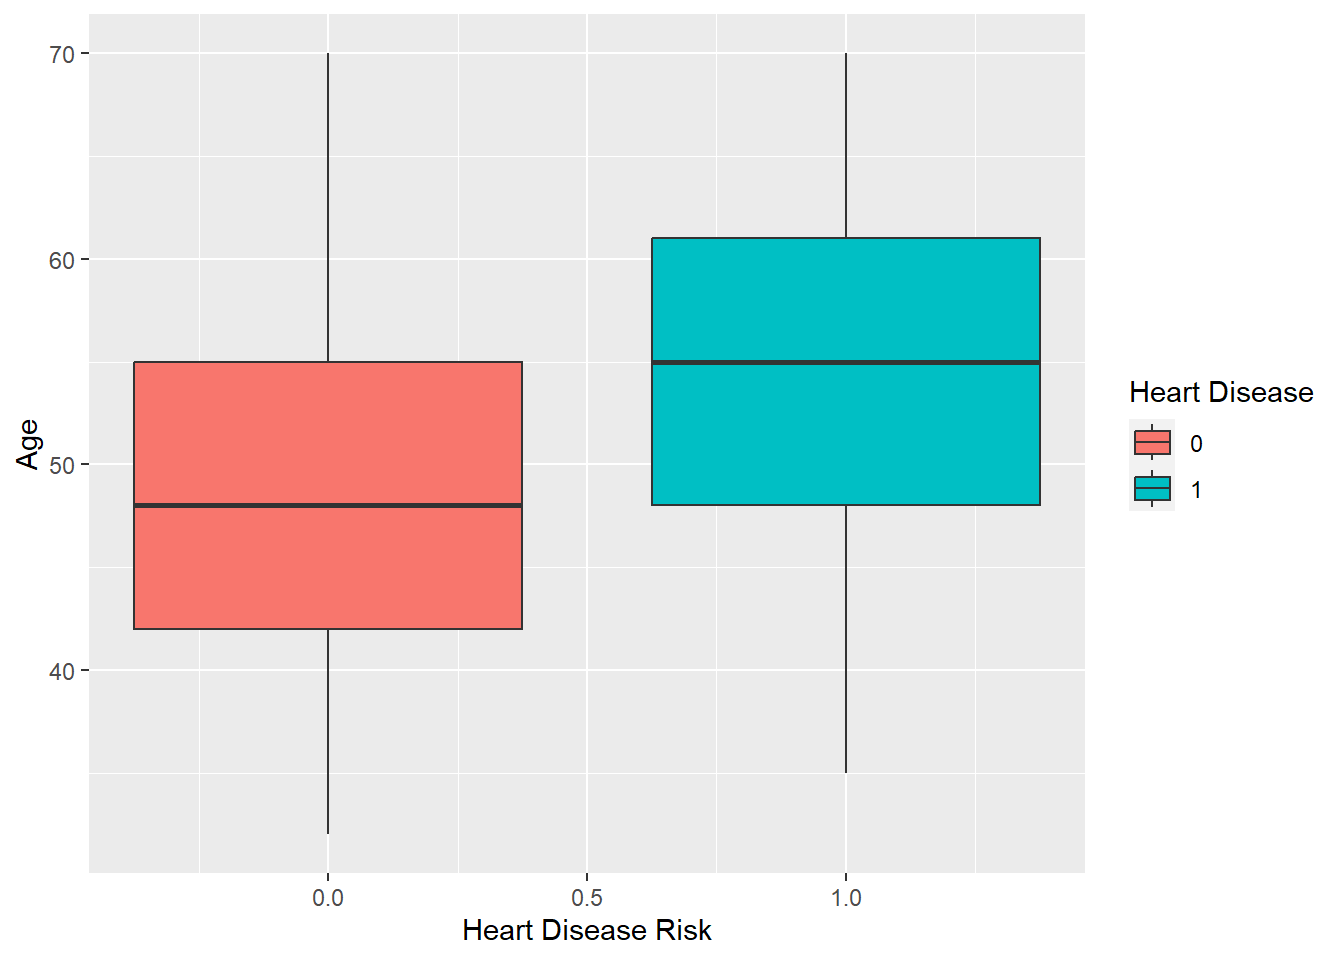
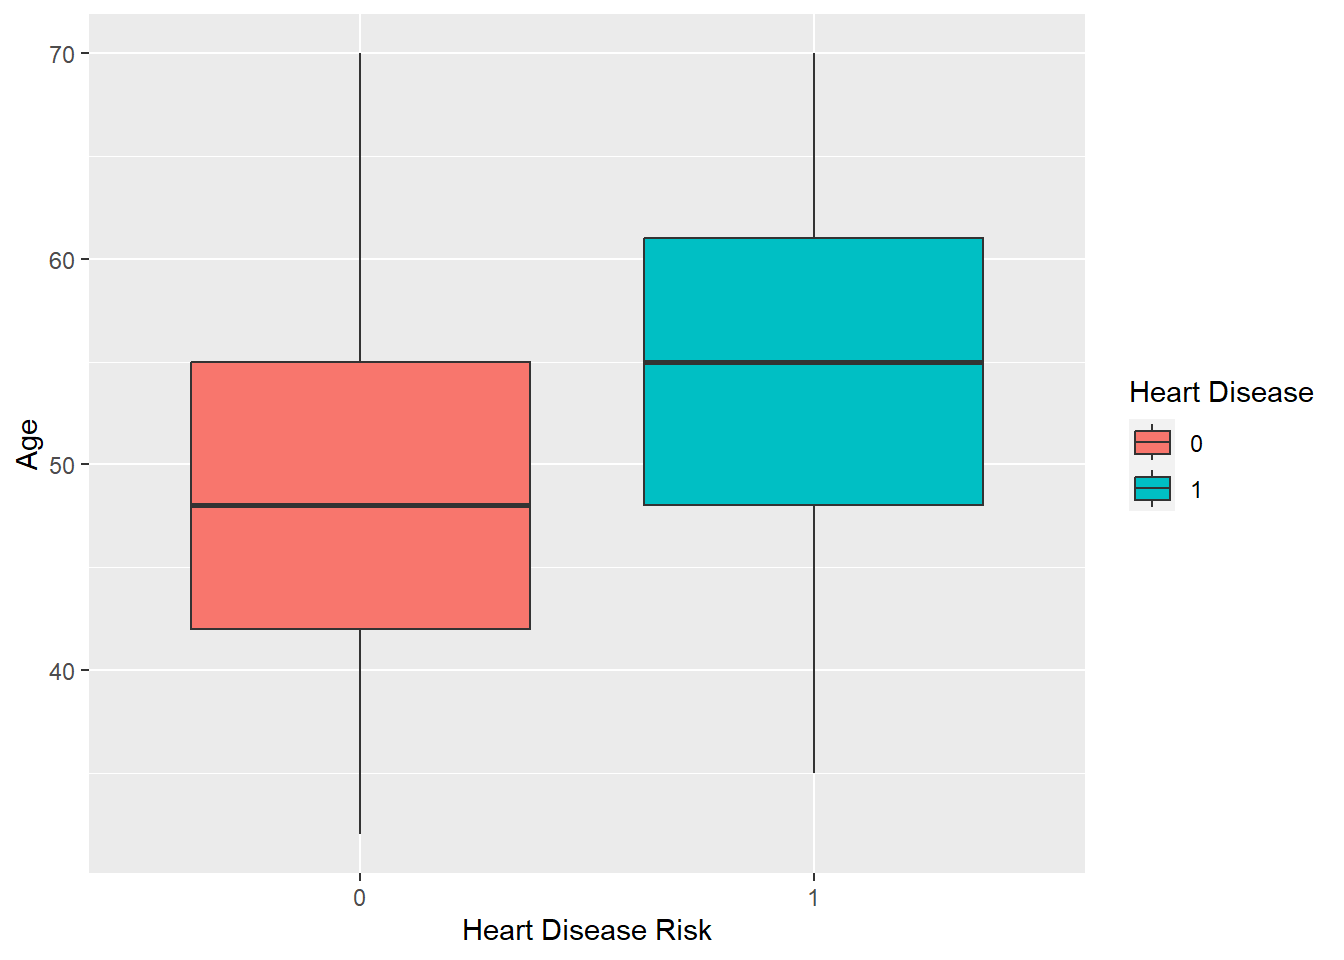
S1Z lab 5 EJ updates

diff --git a/docs/introducing-the-data.html b/docs/introducing-the-data.html
@@ -171,8 +171,8 @@ code span.wa { color: #60a0b0; font-weight: bold; font-style: italic; } /* Warni
 <p><img src="Images/heartdisease.jpg" width="75%" /></p>
 <p>Today we will explore the variables that contribute to heart disease. We will be looking at data from an ongoing cardiovascular study on residents of the town of Framingham, Massachusetts. The goal is to predict the probability of a patient developing coronary heart disease (CHD) over the next ten years based on multiple explanatory variables. The dataset provides the patients’ information. It includes over 4,000 records and 7 attributes.</p>
 <p>Load the <code>HEARTDISEASE</code> data set into your workspace by typing the following code in an Rscript file in your local Rstudio.</p>
-<div class="sourceCode" id="cb1"><pre class="sourceCode r"><code class="sourceCode r"><span id="cb1-1"><a href="introducing-the-data.html#cb1-1" aria-hidden="true" tabindex="-1"></a>HEARTDISEASE<span class="ot">&lt;-</span><span class="fu">read.csv</span>(<span class="fu">url</span>(<span class="st">&quot;https://raw.githubusercontent.com/Glasgow-Stats-L1-L2/S1Z_Lab5/main/HEARTDISEASE.csv&quot;</span>))</span></code></pre></div>
-<p>You may download the dataset named <code>HEARTDISEASE.csv</code> file from our Moodle course page. Once the file has downloaded, <strong>save it in the same folder</strong> as the <code>R</code> script file you created and saved for this lab. You should now set your working directory to this location by clicking <code>Session &gt; Set Working Directory &gt; To Source File Location</code>. You can load the data set into your workspace by running <code>HEARTDISEASE &lt;- read.csv("HEARTDISEASE.csv")</code>.</p>
+<div class="sourceCode" id="cb1"><pre class="sourceCode r"><code class="sourceCode r"><span id="cb1-1"><a href="introducing-the-data.html#cb1-1" aria-hidden="true" tabindex="-1"></a>HEARTDISEASE<span class="ot">&lt;-</span><span class="fu">read.csv</span>(<span class="fu">url</span>(<span class="st">&quot;https://raw.githubusercontent.com/Glasgow-Stats-L1-L2/S1Z_Lab5/main/HeartDisease.csv&quot;</span>))</span></code></pre></div>
+<p>You may download the dataset named <code>HeartDisease.csv</code> file from our Moodle course page. Once the file has downloaded, <strong>save it in the same folder</strong> as the <code>R</code> script file you created and saved for this lab. You should now set your working directory to this location by clicking <code>Session &gt; Set Working Directory &gt; To Source File Location</code>. You can load the data set into your workspace by running <code>HEARTDISEASE &lt;- read.csv("HeartDisease.csv")</code>.</p>
 <p>The 7 variables are:</p>
 <ul>
 <li><p><strong>male</strong> : Sex of the patient (Nominal - male = 1 or female = 0)</p></li>
@@ -219,24 +219,24 @@ Hint
 <span id="cb6-2"><a href="introducing-the-data.html#cb6-2" aria-hidden="true" tabindex="-1"></a>sextable</span></code></pre></div>
 <pre><code>## 
 ##    0    1 
-## 2310 1747</code></pre>
+## 2353 1753</code></pre>
 <div class="sourceCode" id="cb8"><pre class="sourceCode r"><code class="sourceCode r"><span id="cb8-1"><a href="introducing-the-data.html#cb8-1" aria-hidden="true" tabindex="-1"></a><span class="fu">prop.table</span>(sextable)</span></code></pre></div>
 <pre><code>## 
 ##         0         1 
-## 0.5693862 0.4306138</code></pre>
+## 0.5730638 0.4269362</code></pre>
 <p><br></p>
 <p>We can expand the use of tables to separate by men and women with risk of heart disease.</p>
 <div class="sourceCode" id="cb10"><pre class="sourceCode r"><code class="sourceCode r"><span id="cb10-1"><a href="introducing-the-data.html#cb10-1" aria-hidden="true" tabindex="-1"></a>sex_heartdisease_table <span class="ot">&lt;-</span> <span class="fu">table</span>(HEARTDISEASE<span class="sc">$</span>male, HEARTDISEASE<span class="sc">$</span>TenYearCHD, <span class="at">dnn =</span> <span class="fu">c</span>(<span class="st">&quot;male&quot;</span>,<span class="st">&quot;TenYearCHD&quot;</span>))</span>
 <span id="cb10-2"><a href="introducing-the-data.html#cb10-2" aria-hidden="true" tabindex="-1"></a>sex_heartdisease_table</span></code></pre></div>
 <pre><code>##     TenYearCHD
 ## male    0    1
-##    0 2020  290
-##    1 1420  327</code></pre>
+##    0 2056  297
+##    1 1424  329</code></pre>
 <div class="sourceCode" id="cb12"><pre class="sourceCode r"><code class="sourceCode r"><span id="cb12-1"><a href="introducing-the-data.html#cb12-1" aria-hidden="true" tabindex="-1"></a><span class="fu">prop.table</span>(sex_heartdisease_table, <span class="at">margin =</span> <span class="dv">1</span>) </span></code></pre></div>
 <pre><code>##     TenYearCHD
 ## male         0         1
-##    0 0.8744589 0.1255411
-##    1 0.8128220 0.1871780</code></pre>
+##    0 0.8737782 0.1262218
+##    1 0.8123217 0.1876783</code></pre>
 <div class="sourceCode" id="cb14"><pre class="sourceCode r"><code class="sourceCode r"><span id="cb14-1"><a href="introducing-the-data.html#cb14-1" aria-hidden="true" tabindex="-1"></a><span class="co">#this sums the proportion to 1 across the rows. margin=2 would change this to across the columns.</span></span></code></pre></div>
 <p><strong>What proportion of women were at risk of heart disease risk after 10 years (to 2 decimal places)?</strong>
 <input class='webex-solveme nospaces' size='5' data-answer='["12.62"]'/>%</p>
@@ -245,7 +245,7 @@ Hint
 <input class='webex-solveme nospaces' size='5' data-answer='["18.72"]'/>%</p>
 <p><br></p>
 <p>For when working with a combination of continuous varibales like age and a binary variable like TenYearCHD, box plots can be useful.</p>
-<div class="sourceCode" id="cb15"><pre class="sourceCode r"><code class="sourceCode r"><span id="cb15-1"><a href="introducing-the-data.html#cb15-1" aria-hidden="true" tabindex="-1"></a><span class="fu">ggplot</span>(HEARTDISEASE, <span class="fu">aes</span>(<span class="at">x =</span> TenYearCHD, <span class="at">y =</span> age, <span class="at">fill =</span> <span class="fu">as.factor</span>(TenYearCHD))) <span class="sc">+</span></span>
+<div class="sourceCode" id="cb15"><pre class="sourceCode r"><code class="sourceCode r"><span id="cb15-1"><a href="introducing-the-data.html#cb15-1" aria-hidden="true" tabindex="-1"></a><span class="fu">ggplot</span>(HEARTDISEASE, <span class="fu">aes</span>(<span class="at">x =</span> <span class="fu">as.factor</span>(TenYearCHD), <span class="at">y =</span> age, <span class="at">fill =</span> <span class="fu">as.factor</span>(TenYearCHD))) <span class="sc">+</span></span>
 <span id="cb15-2"><a href="introducing-the-data.html#cb15-2" aria-hidden="true" tabindex="-1"></a>  <span class="fu">geom_boxplot</span>() <span class="sc">+</span></span>
 <span id="cb15-3"><a href="introducing-the-data.html#cb15-3" aria-hidden="true" tabindex="-1"></a>  <span class="fu">labs</span>(<span class="at">x =</span> <span class="st">&quot;Heart Disease Risk&quot;</span>, <span class="at">y =</span> <span class="st">&quot;Age&quot;</span>, <span class="at">fill =</span> <span class="st">&quot;Heart Disease&quot;</span>)</span></code></pre></div>
 <p><img src="main_files/figure-html/unnamed-chunk-15-1.png" width="672" /></p>

diff --git a/docs/group-exercise.html b/docs/group-exercise.html
@@ -180,13 +180,13 @@ code span.wa { color: #60a0b0; font-weight: bold; font-style: italic; } /* Warni
 </ul>
 <p><br></p>
 <p>Load the <code>DIABETES</code> data set into your workspace by typing the following code in an Rscript file in your local Rstudio.</p>
-<div class="sourceCode" id="cb39"><pre class="sourceCode r"><code class="sourceCode r"><span id="cb39-1"><a href="group-exercise.html#cb39-1" aria-hidden="true" tabindex="-1"></a>DIABETES<span class="ot">&lt;-</span><span class="fu">read.csv</span>(<span class="fu">url</span>(<span class="st">&quot;https://raw.githubusercontent.com/Glasgow-Stats-L1-L2/S1Z_Lab5/main/DIABETES.csv&quot;</span>))</span></code></pre></div>
-<p>You may download the dataset named <code>DIABETES.csv</code> file from our Moodle course page. Once the file has downloaded, <strong>save it in the same folder</strong> as the <code>R</code> script file you created and saved for this lab. You should now set your working directory to this location by clicking <code>Session &gt; Set Working Directory &gt; To Source File Location</code>. You can load the data set into your workspace by running <code>DIABETES &lt;- read.csv("DIABETES.csv")</code>.</p>
+<div class="sourceCode" id="cb39"><pre class="sourceCode r"><code class="sourceCode r"><span id="cb39-1"><a href="group-exercise.html#cb39-1" aria-hidden="true" tabindex="-1"></a>DIABETES<span class="ot">&lt;-</span><span class="fu">read.csv</span>(<span class="fu">url</span>(<span class="st">&quot;https://raw.githubusercontent.com/Glasgow-Stats-L1-L2/S1Z_Lab5/main/diabetes.csv&quot;</span>))</span></code></pre></div>
+<p>You may download the dataset named <code>diabetes.csv</code> file from our Moodle course page. Once the file has downloaded, <strong>save it in the same folder</strong> as the <code>R</code> script file you created and saved for this lab. You should now set your working directory to this location by clicking <code>Session &gt; Set Working Directory &gt; To Source File Location</code>. You can load the data set into your workspace by running <code>DIABETES &lt;- read.csv("diabetes.csv")</code>.</p>
 <div id="tasks" class="section level2 hasAnchor" number="5.1">
 <h2><span class="header-section-number">5.1</span> Tasks<a href="group-exercise.html#tasks" class="anchor-section" aria-label="Anchor link to header"></a></h2>
 <ol style="list-style-type: decimal">
-<li><p>Remove missing values from the data set and then produce a boxplot of to investigate whether patients with diabetes appear to have higher plasma glucose concentration after 2 hours in an oral glucose tolerance test.</p></li>
-<li><p>Fit the full model using <code>Outcome</code> as the response variable and all the remaining collected variables as explanatory variables.</p></li>
+<li><p>Remove missing values from the data set and then produce a boxplot to investigate whether patients with diabetes appear to have higher plasma glucose concentration after 2 hours in an oral glucose tolerance test.</p></li>
+<li><p>Fit the full model using <code>Outcome</code> as the response variable and all the remaining variables as explanatory variables.</p></li>
 <li><p>Refine the model by removing the variable with the largest p-value and re-evaluating the summary and repeat until all predictors are significant. Write down the equation of your refined model.</p></li>
 <li><p>Calculate the odds ratio of the variable <code>Glucose</code> and interpret it in context. Repeat this for the variable <code>Pregnancies</code>.</p></li>
 <li><p>For the following two patients, find out the odds of that patient having diabetes and the corresponding probability <span class="math inline">\(p_i\)</span>. Interpret both in context.</p></li>

diff --git a/docs/modelling-our-data.html b/docs/modelling-our-data.html
@@ -188,25 +188,25 @@ code span.wa { color: #60a0b0; font-weight: bold; font-style: italic; } /* Warni
 ## 
 ## Deviance Residuals: 
 ##     Min       1Q   Median       3Q      Max  
-## -1.4844  -0.5963  -0.4310  -0.2959   2.7973  
+## -1.4904  -0.5971  -0.4350  -0.3014   2.7774  
 ## 
 ## Coefficients:
 ##              Estimate Std. Error z value Pr(&gt;|z|)    
-## (Intercept) -8.082293   0.411671 -19.633  &lt; 2e-16 ***
-## male         0.454730   0.099555   4.568 4.93e-06 ***
-## age          0.068942   0.006123  11.260  &lt; 2e-16 ***
-## education   -0.012474   0.046049  -0.271 0.786472    
-## cigsPerDay   0.021393   0.003945   5.422 5.88e-08 ***
-## diabetes     0.734689   0.222135   3.307 0.000942 ***
-## sysBP        0.017468   0.002035   8.585  &lt; 2e-16 ***
+## (Intercept) -7.918313   0.405691 -19.518  &lt; 2e-16 ***
+## male         0.459837   0.098432   4.672 2.99e-06 ***
+## age          0.066125   0.006052  10.925  &lt; 2e-16 ***
+## education   -0.012685   0.045701  -0.278 0.781352    
+## cigsPerDay   0.020530   0.003904   5.259 1.45e-07 ***
+## diabetes     0.780451   0.220105   3.546 0.000391 ***
+## sysBP        0.017417   0.002019   8.628  &lt; 2e-16 ***
 ## ---
 ## Signif. codes:  0 &#39;***&#39; 0.001 &#39;**&#39; 0.01 &#39;*&#39; 0.05 &#39;.&#39; 0.1 &#39; &#39; 1
 ## 
 ## (Dispersion parameter for binomial family taken to be 1)
 ## 
-##     Null deviance: 3459.0  on 4056  degrees of freedom
-## Residual deviance: 3081.7  on 4050  degrees of freedom
-## AIC: 3095.7
+##     Null deviance: 3506.1  on 4105  degrees of freedom
+## Residual deviance: 3136.7  on 4099  degrees of freedom
+## AIC: 3150.7
 ## 
 ## Number of Fisher Scoring iterations: 5</code></pre>
 <p><br></p>
@@ -235,24 +235,24 @@ Solution
 ## 
 ## Deviance Residuals: 
 ##     Min       1Q   Median       3Q      Max  
-## -1.4820  -0.5963  -0.4305  -0.2965   2.7987  
+## -1.4879  -0.5958  -0.4353  -0.3018   2.7789  
 ## 
 ## Coefficients:
 ##              Estimate Std. Error z value Pr(&gt;|z|)    
-## (Intercept) -8.123299   0.383131 -21.202  &lt; 2e-16 ***
-## male         0.454482   0.099544   4.566 4.98e-06 ***
-## age          0.069155   0.006072  11.388  &lt; 2e-16 ***
-## cigsPerDay   0.021422   0.003943   5.432 5.56e-08 ***
-## diabetes     0.735988   0.222072   3.314 0.000919 ***
-## sysBP        0.017510   0.002029   8.631  &lt; 2e-16 ***
+## (Intercept) -7.959993   0.377176 -21.104  &lt; 2e-16 ***
+## male         0.459536   0.098419   4.669 3.02e-06 ***
+## age          0.066345   0.006001  11.056  &lt; 2e-16 ***
+## cigsPerDay   0.020558   0.003902   5.269 1.37e-07 ***
+## diabetes     0.781744   0.220044   3.553 0.000381 ***
+## sysBP        0.017460   0.002013   8.674  &lt; 2e-16 ***
 ## ---
 ## Signif. codes:  0 &#39;***&#39; 0.001 &#39;**&#39; 0.01 &#39;*&#39; 0.05 &#39;.&#39; 0.1 &#39; &#39; 1
 ## 
 ## (Dispersion parameter for binomial family taken to be 1)
 ## 
-##     Null deviance: 3459.0  on 4056  degrees of freedom
-## Residual deviance: 3081.8  on 4051  degrees of freedom
-## AIC: 3093.8
+##     Null deviance: 3506.1  on 4105  degrees of freedom
+## Residual deviance: 3136.8  on 4100  degrees of freedom
+## AIC: 3148.8
 ## 
 ## Number of Fisher Scoring iterations: 5</code></pre>
 <p><strong>Task 2</strong></p>
